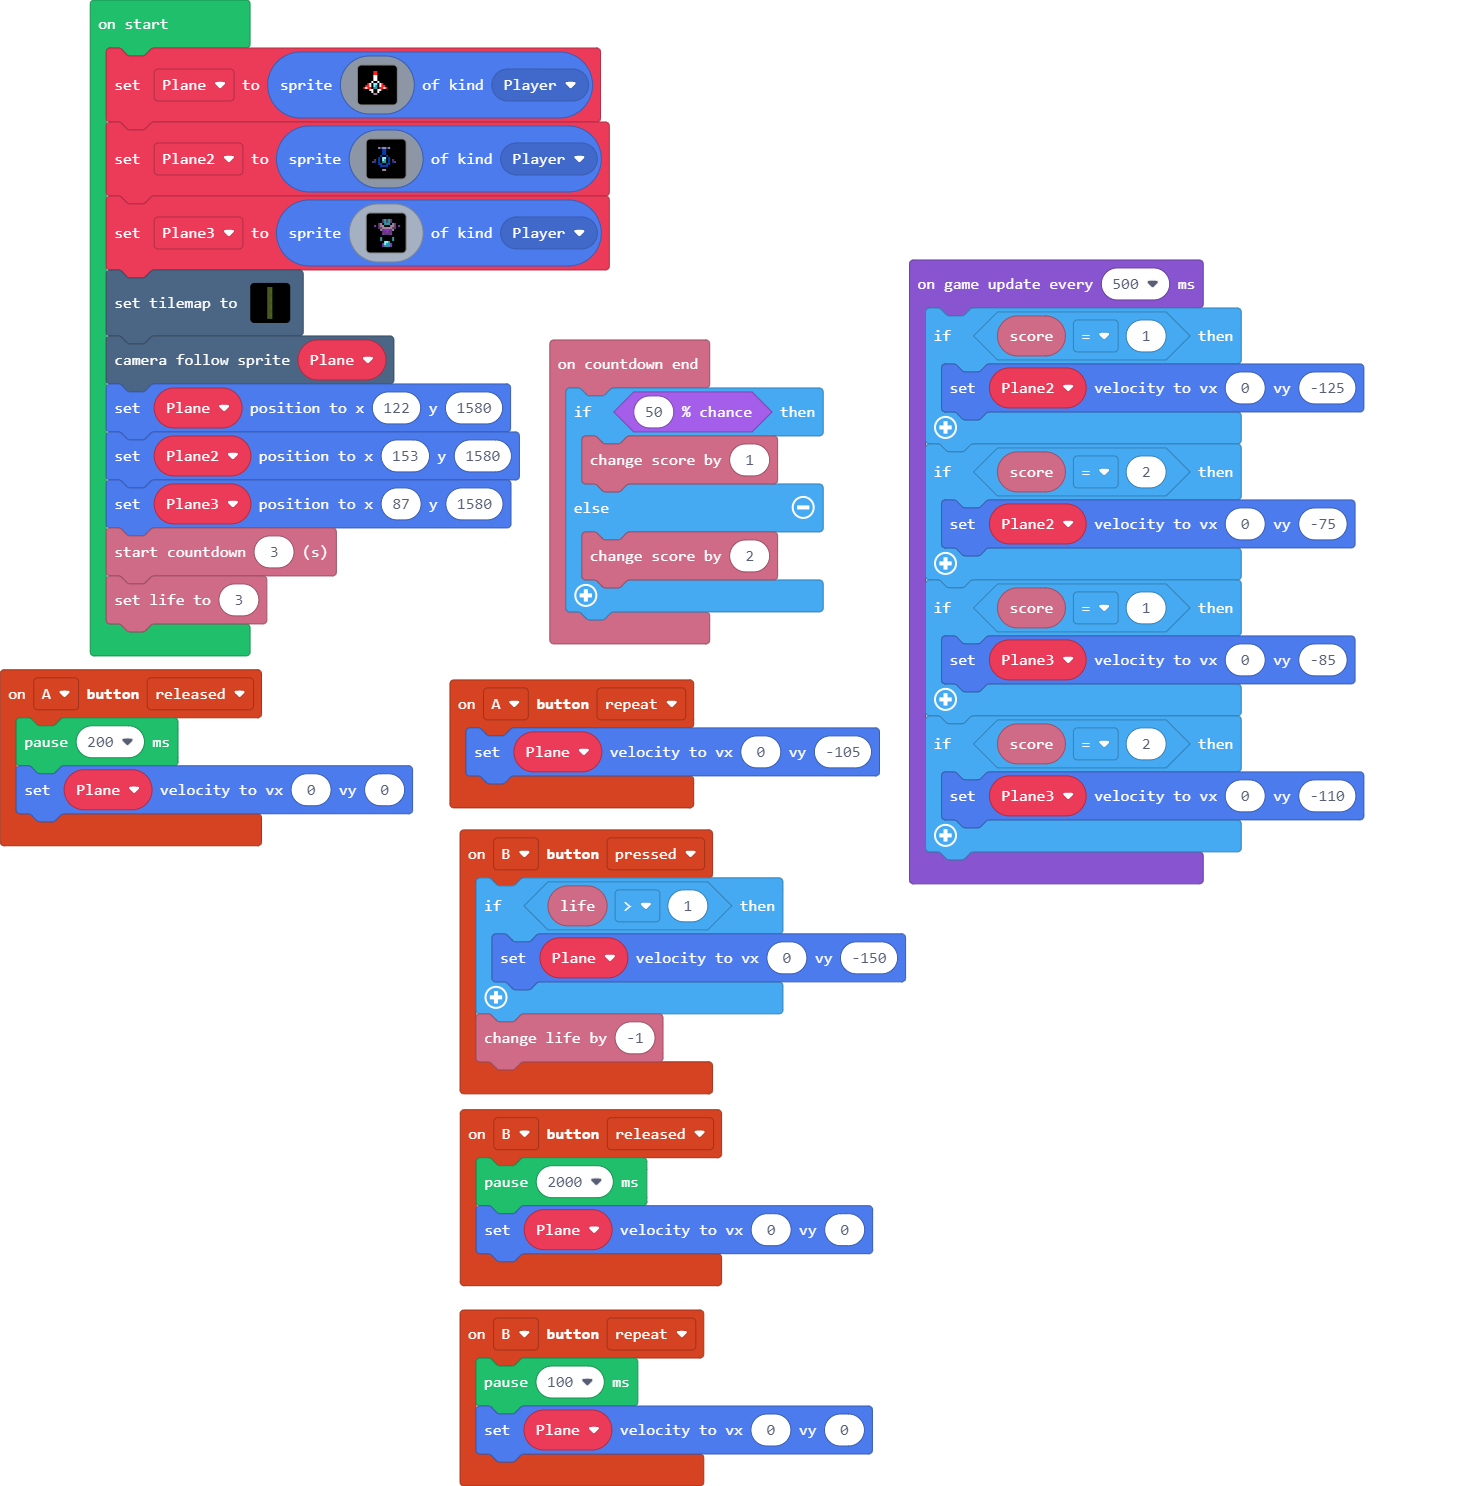
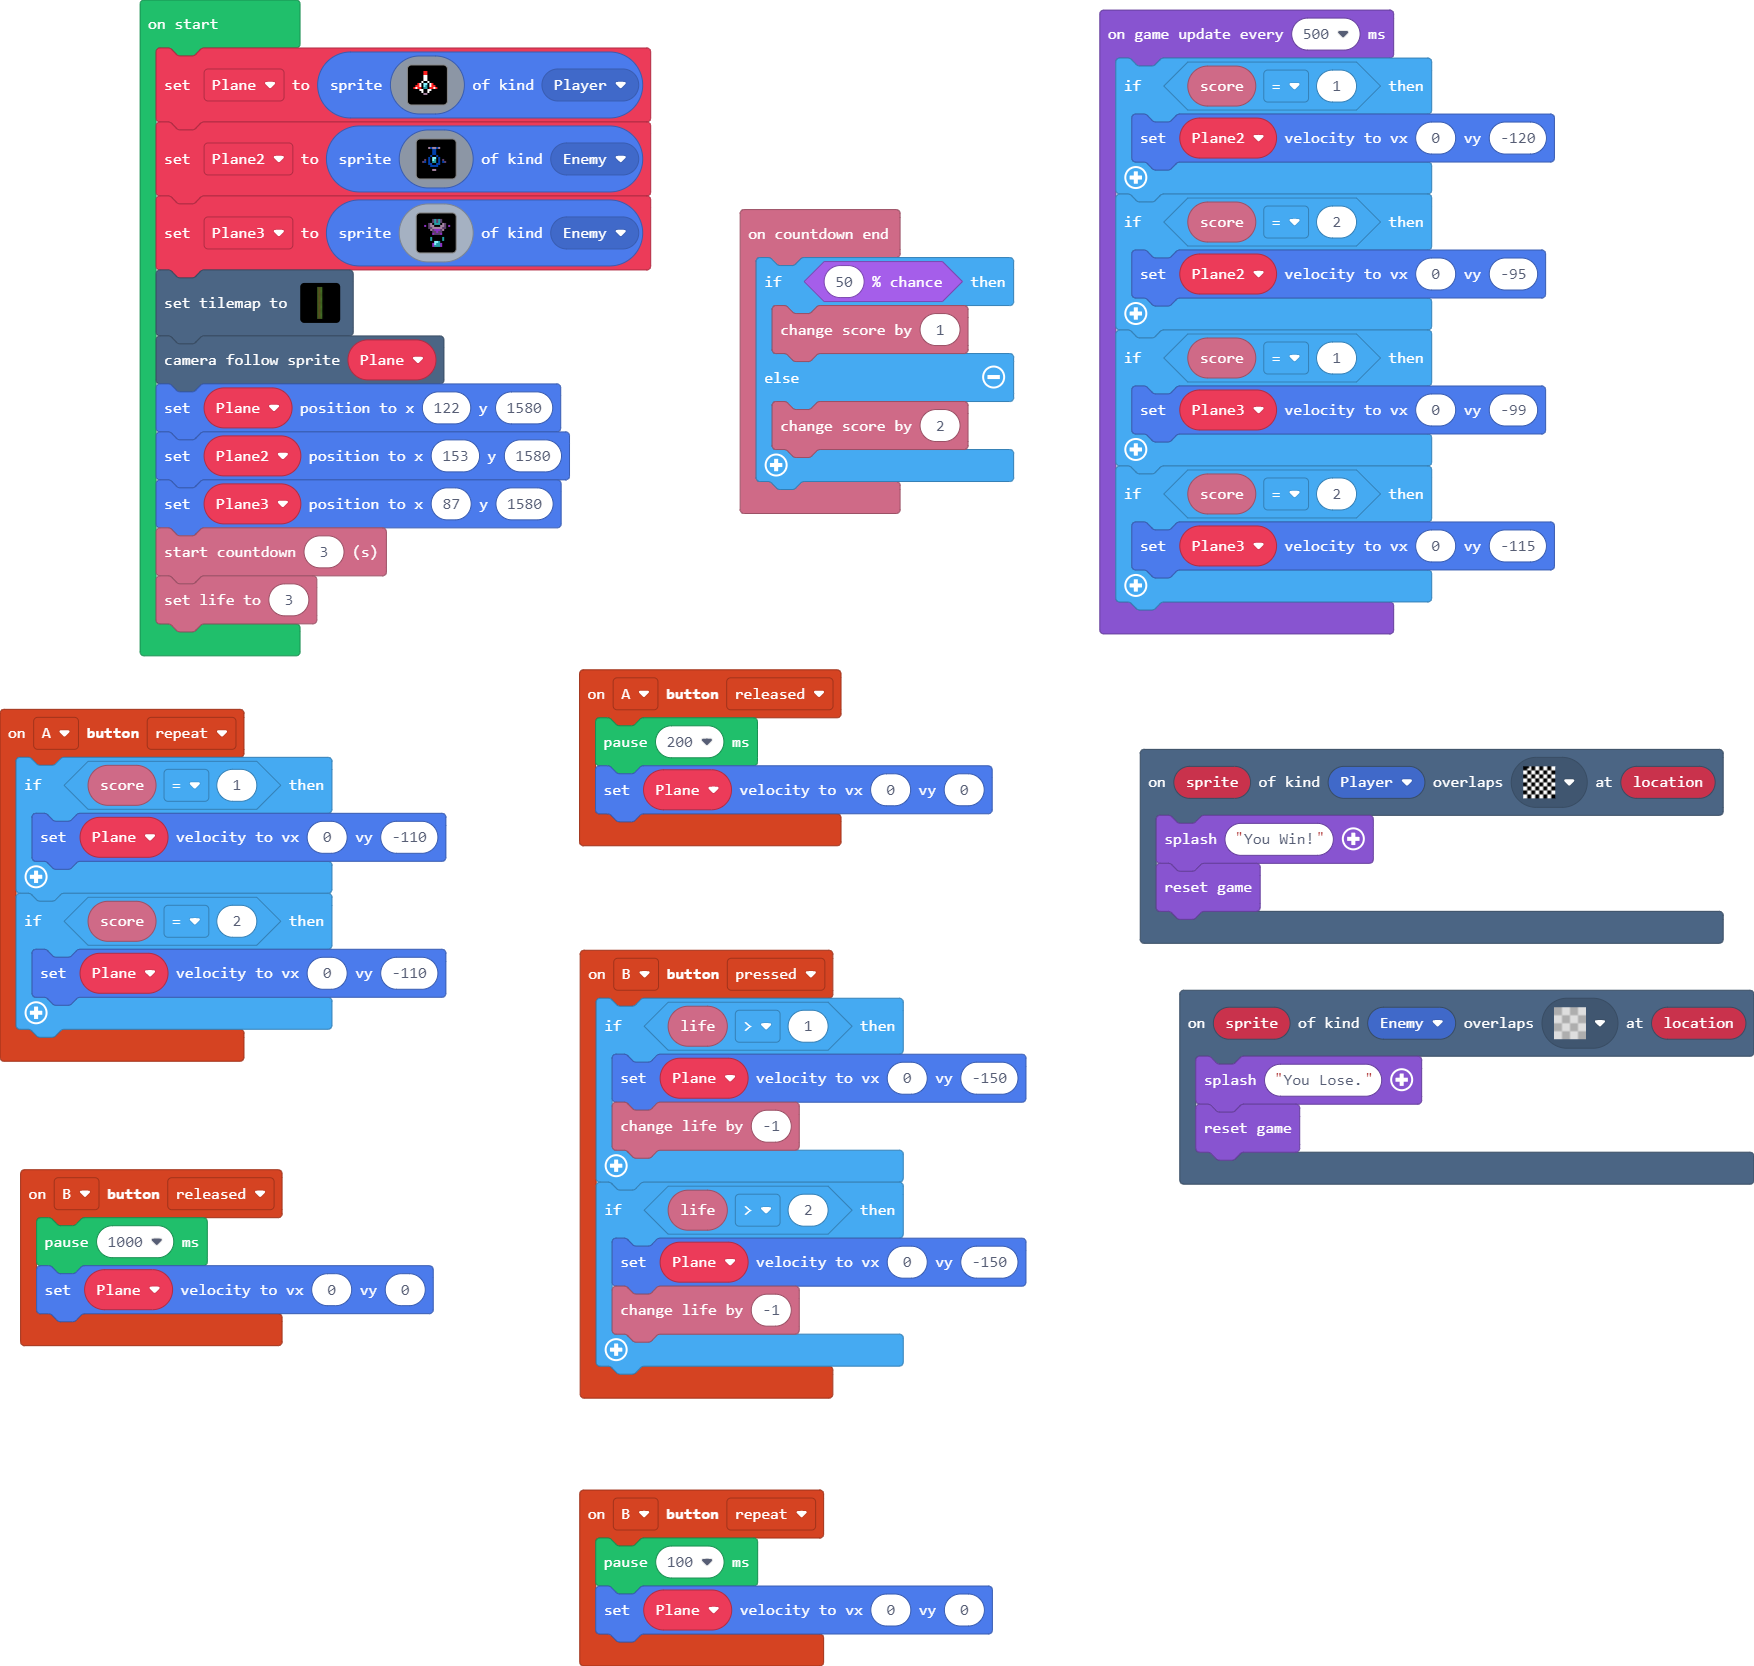
Update main.blocks, main.ts

diff --git a/main.ts b/main.ts
@@ -132,19 +132,55 @@ f f f f f f f f f f f f f f f f
 7 7 e 7 7 7 7 7 5 7 7 7 7 e 7 7 
 7 f f f 7 7 7 7 7 7 7 7 f f f 7 
 `
+    //% blockIdentity=images._tile
+    export const tile7 = img`
+f f f 1 f f 1 1 f f 1 1 f f 1 1 
+f f 1 1 f f 1 1 f f 1 1 f f 1 1 
+1 1 f f 1 1 f f 1 1 f f 1 1 f f 
+1 1 f f 1 1 f f 1 1 f f 1 1 f f 
+f f 1 1 f f 1 1 f f 1 1 f f 1 1 
+f f 1 1 f f 1 1 f f 1 1 f f 1 1 
+1 1 f f 1 1 f f 1 1 f f 1 1 f f 
+1 1 f f 1 1 f f 1 1 f f 1 1 f f 
+f f 1 1 f f 1 1 f f 1 1 f f 1 1 
+f f 1 1 f f 1 1 f f 1 1 f f 1 1 
+1 1 f f 1 1 f f 1 1 f f 1 1 f f 
+1 1 f f 1 1 f f 1 1 f f 1 1 f f 
+f f 1 1 f f 1 1 f f 1 1 f f 1 1 
+f f 1 1 f f 1 1 f f 1 1 f f 1 1 
+1 1 f f 1 1 f f 1 1 f f 1 1 f f 
+1 1 f f 1 1 f f 1 1 f f 1 1 f f 
+`
 }
 controller.B.onEvent(ControllerButtonEvent.Pressed, function () {
     if (info.life() > 1) {
         Plane.setVelocity(0, -150)
+        info.changeLifeBy(-1)
     }
-    info.changeLifeBy(-1)
+    if (info.life() > 2) {
+        Plane.setVelocity(0, -150)
+        info.changeLifeBy(-1)
+    }
+})
+scene.onOverlapTile(SpriteKind.Enemy, myTiles.tile7, function (sprite, location) {
+    game.splash("You Lose.")
+    game.reset()
 })
 controller.B.onEvent(ControllerButtonEvent.Released, function () {
-    pause(2000)
+    pause(1000)
     Plane.setVelocity(0, 0)
 })
 controller.A.onEvent(ControllerButtonEvent.Repeated, function () {
-    Plane.setVelocity(0, -105)
+    if (info.score() == 1) {
+        Plane.setVelocity(0, -110)
+    }
+    if (info.score() == 2) {
+        Plane.setVelocity(0, -110)
+    }
+})
+scene.onOverlapTile(SpriteKind.Player, myTiles.tile7, function (sprite, location) {
+    game.splash("You Win!")
+    game.reset()
 })
 info.onCountdownEnd(function () {
     if (Math.percentChance(50)) {
@@ -197,7 +233,7 @@ f f f f 8 8 f f 8 8 f f f f . .
 . . . . . f b b f . . . . . . . 
 . . . . . . f f . . . . . . . . 
 . . . . . . . . . . . . . . . . 
-`, SpriteKind.Player)
+`, SpriteKind.Enemy)
 let Plane3 = sprites.create(img`
 . . . . . f f f f f f f . . . . 
 . . . . . f c 6 c 6 c f . . . . 
@@ -215,9 +251,9 @@ let Plane3 = sprites.create(img`
 . . . . . f a 9 6 6 a f . . . . 
 . . . . . f a 6 6 6 a f . . . . 
 . . . . . . f f f f f . . . . . 
-`, SpriteKind.Player)
+`, SpriteKind.Enemy)
 tiles.setTilemap(tiles.createTilemap(
[2 lines of base64/hex data omitted]
             img`
 . . . . 2 . 2 . 2 . 2 . . . . . 
 . . . . 2 . 2 . 2 . 2 . . . . . 
@@ -320,7 +356,7 @@ tiles.setTilemap(tiles.createTilemap(
 . . . . 2 . 2 . 2 . 2 . . . . . 
 . . . . 2 . 2 . 2 . 2 . . . . . 
 `,
-            [myTiles.tile0,myTiles.tile1,myTiles.tile2,myTiles.tile3,sprites.castle.tileGrass1,sprites.castle.tileGrass2,sprites.castle.tileGrass3,sprites.castle.tileDarkGrass2,myTiles.tile4,myTiles.tile5,myTiles.tile6],
+            [myTiles.tile0,myTiles.tile1,myTiles.tile2,myTiles.tile3,sprites.castle.tileGrass1,sprites.castle.tileGrass2,sprites.castle.tileGrass3,sprites.castle.tileDarkGrass2,myTiles.tile4,myTiles.tile5,myTiles.tile6,myTiles.tile7],
             TileScale.Sixteen
         ))
 scene.cameraFollowSprite(Plane)
@@ -331,15 +367,15 @@ info.startCountdown(3)
 info.setLife(3)
 game.onUpdateInterval(500, function () {
     if (info.score() == 1) {
-        Plane2.setVelocity(0, -125)
+        Plane2.setVelocity(0, -120)
     }
     if (info.score() == 2) {
-        Plane2.setVelocity(0, -75)
+        Plane2.setVelocity(0, -95)
     }
     if (info.score() == 1) {
-        Plane3.setVelocity(0, -85)
+        Plane3.setVelocity(0, -99)
     }
     if (info.score() == 2) {
-        Plane3.setVelocity(0, -110)
+        Plane3.setVelocity(0, -115)
     }
 })
